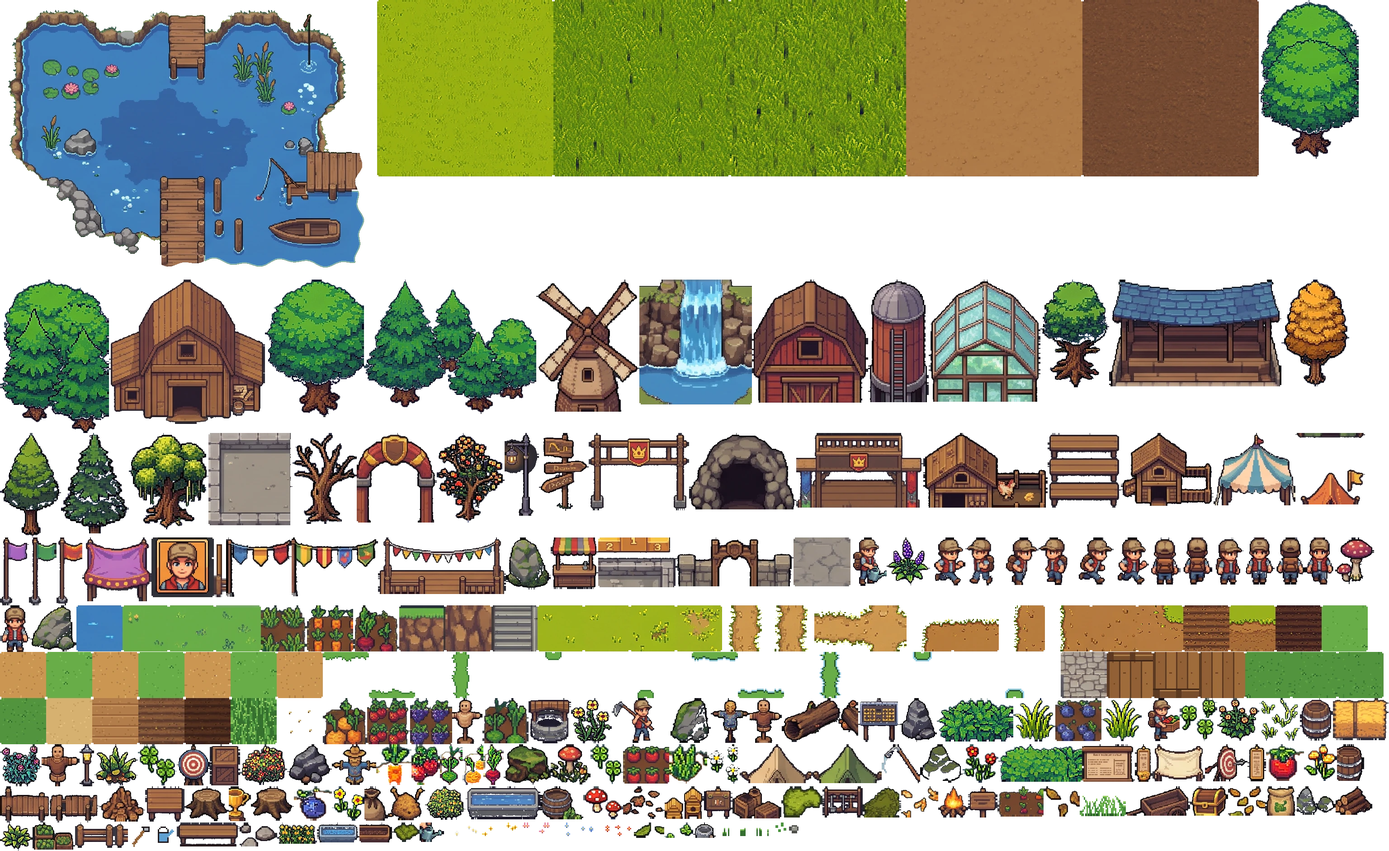
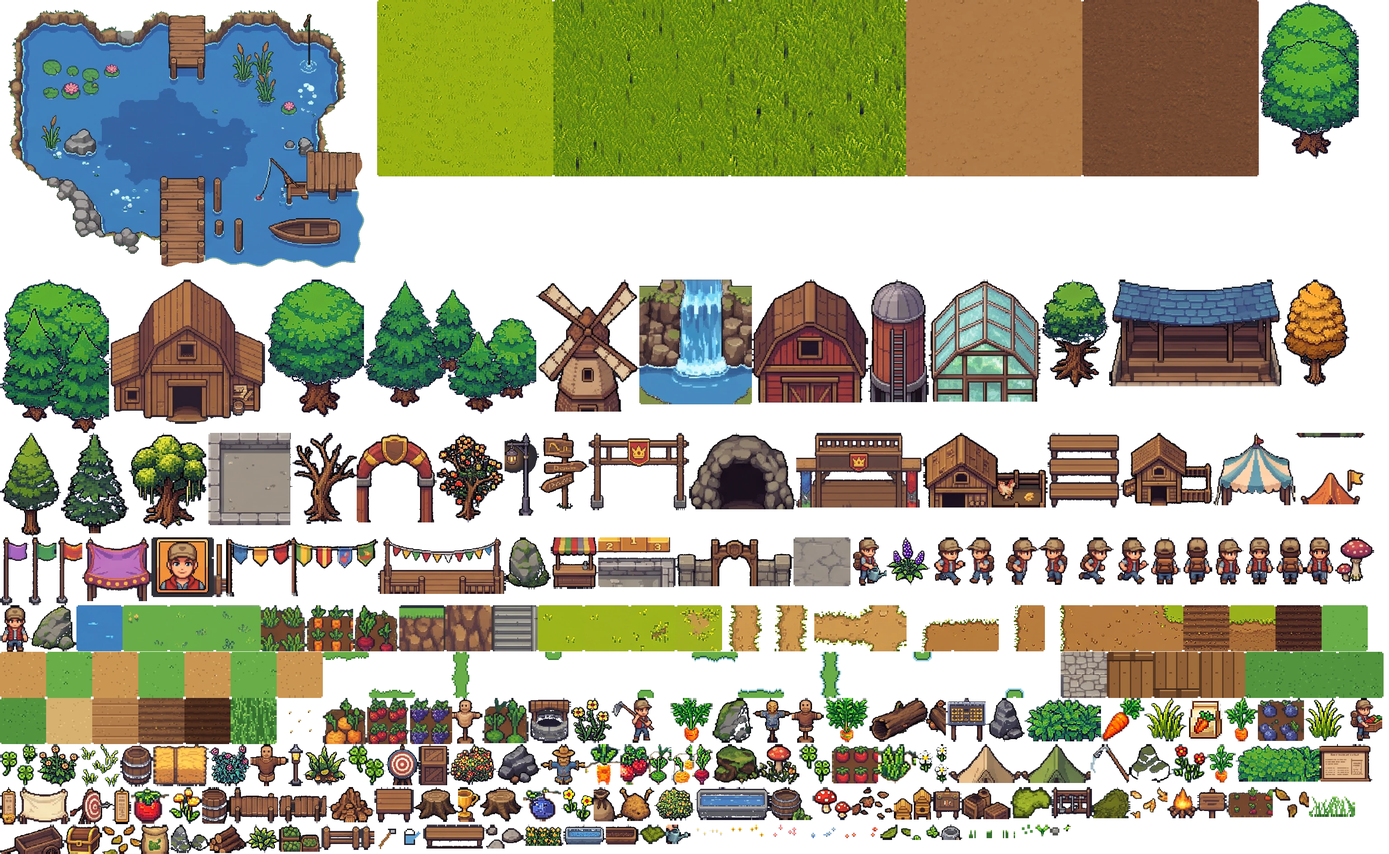
Cà rốt dùng bộ asset riêng: gieo hạt, nảy mầm, 4 giai đoạn lớn, thu hoạch
- assets/source/crop_carrot.png + tools/crops_cut.py: cắt hạt trong đất,
  mầm, 4 giai đoạn lớn (bỏ nền xám và dải đất), củ cà rốt, túi hạt giống
- Trong game: mới gieo = hạt; tưới = nảy mầm; giai đoạn 1 (lớn hơn khi đã
  tưới), giai đoạn 2, chín = cây cà rốt to
- Thanh công cụ: icon túi hạt cà rốt; cửa hàng / thùng bán: icon củ cà rốt
- Cây khác vẫn dùng hình cũ cho tới khi có bộ asset tương tự
  (đặt file assets/source/crop_<tên>.png cùng bố cục là dùng được)

Claude-Session: https://claude.ai/code/session_01BbaPnx3cHQqz9kHRAFFL9w

diff --git a/client/src/ui.ts b/client/src/ui.ts
@@ -72,7 +72,7 @@ export class UI {
       { id: 'hoe', icon: 'tool_hoe', label: 'Cuốc' },
       { id: 'can', icon: 'tool_can', label: 'Bình tưới' },
       { id: 'hand', icon: 'pc_tomato', label: 'Thu hoạch' },
-      ...seeds.map((c) => ({ id: 'seed:' + c, icon: 'pc_' + c, label: 'Hạt ' + CROPS[c].name, count: st.inv['seed:' + c] })),
+      ...seeds.map((c) => ({ id: 'seed:' + c, icon: this.atlas.frames[`cp_${c}_bag`] ? `cp_${c}_bag` : 'pc_' + c, label: 'Hạt ' + CROPS[c].name, count: st.inv['seed:' + c] })),
     ];
     this.hotbar.replaceChildren(...this.slots.map((s, i) => {
       const d = document.createElement('div');
@@ -112,7 +112,7 @@ export class UI {
     this.panel.dataset.kind = 'shop';
     const rows = CROP_IDS.map((c) => {
       const d = CROPS[c];
-      return `<div class="row"><span class="ic" data-ic="pc_${c}"></span>
+      return `<div class="row"><span class="ic" data-ic="${this.atlas.frames[`cp_${c}_item`] ? `cp_${c}_item` : `pc_${c}`}"></span>
         <span class="nm">${d.name}<small>${d.stageSecs * 3}s · bán ${d.sellPrice}<i class="coin"></i></small></span>
         <span class="have">${st.inv['seed:' + c] || 0}</span>
         <button data-buy="${c}" data-n="1" ${st.coins < d.seedPrice ? 'disabled' : ''}>${d.seedPrice}<i class="coin"></i></button>
@@ -125,7 +125,7 @@ export class UI {
     this.panel.dataset.kind = 'ship';
     const items = CROP_IDS.filter((c) => st.inv[c]);
     const rows = items.length
-      ? items.map((c) => `<div class="row"><span class="ic" data-ic="pc_${c}"></span>
+      ? items.map((c) => `<div class="row"><span class="ic" data-ic="${this.atlas.frames[`cp_${c}_item`] ? `cp_${c}_item` : `pc_${c}`}"></span>
           <span class="nm">${CROPS[c].name}<small>${CROPS[c].sellPrice}<i class="coin"></i> / cái</small></span>
           <span class="have">${st.inv[c]}</span>
           <button data-sell="${c}" data-n="1">Bán 1</button>

diff --git a/client/src/main.ts b/client/src/main.ts
@@ -220,6 +220,19 @@ function update(dt: number) {
 
 // ----------------------------------------------------------------- render
 interface Drawable { y: number; name: string; x: number; flip: boolean }
+/** Sprite for a plot. Crops with a full asset sheet (cp_<crop>_*) get their own
+ *  stages: seed -> sprout (watered) -> growing -> ripe. */
+function cropFrame(p: Plot): string {
+  const c = p.c;
+  if (atlas.frames[`cp_${c}_g4`]) {
+    if (p.s === 0) return p.w ? `cp_${c}_sprout` : `cp_${c}_seed`;
+    if (p.s === 1) return p.w ? `cp_${c}_g2` : `cp_${c}_g1`;
+    if (p.s === 2) return `cp_${c}_g3`;
+    return `cp_${c}_g4`;
+  }
+  if (p.s === 0) return 'pc_sprout:s';
+  return p.s >= RIPE ? 'pc_' + c : p.s === 1 ? 'pc_sprout:s' : 'pc_sprout';
+}
 const pool: Drawable[] = [];
 const list: Drawable[] = [];
 const byY = (a: Drawable, b: Drawable) => a.y - b.y;
@@ -256,8 +269,7 @@ function render(time: number) {
     if (!p.c) continue;
     // stage 0 = seeds in the furrows (nothing visible yet), 1 = small sprout,
     // 2 = leafy sprout, 3 = ripe plant
-    if (p.s === 0) continue;
-    push(p.s >= RIPE ? 'pc_' + p.c : p.s === 1 ? 'pc_sprout:s' : 'pc_sprout', tx * TILE + 16, ty * TILE + TILE - 3, false);
+    push(cropFrame(p), tx * TILE + 16, ty * TILE + TILE - 3, false);
   }
 
   // target highlight
@@ -294,7 +306,7 @@ function render(time: number) {
       drawAnchored(ctx, atlas, nm, 0, 0, d.flip); ctx.restore();
       continue;
     }
-    const sw = swayFor(d.name.startsWith('pc_') ? 'crop_' : d.name, d.x, d.y, ts);
+    const sw = swayFor(d.name.startsWith('pc_') || d.name.startsWith('cp_') ? 'crop_' : d.name, d.x, d.y, ts);
     if (sw) {
       // shear around the base: the top moves, the roots stay put
       ctx.save();

diff --git a/tools/crops_cut.py b/tools/crops_cut.py
@@ -1,0 +1,120 @@
+"""Cut crop growth stages + items from per-crop sheets (assets/source/crop_<name>.png).
+
+Layout of a crop sheet (2000px wide, like crop_carrot.png):
+  row 1: tilled soil, seed bag, empty soil, seed in soil, sprout
+  row 2: 4 growing stages (plant on grey background + soil band)
+  row 3: full harvest bunch, item views, crate, item card + shovel
+"""
+import os
+from collections import deque
+from PIL import Image
+
+ROOT = os.path.dirname(os.path.dirname(os.path.abspath(__file__)))
+
+CELLS = {
+    'seed': (1368, 82, 1632, 330, 'green'),
+    'sprout': (1665, 82, 1950, 330, 'green'),
+    'g1': (50, 405, 335, 670, 'plant'),
+    'g2': (472, 405, 735, 670, 'plant'),
+    'g3': (861, 405, 1123, 670, 'plant'),
+    'g4': (1368, 405, 1632, 670, 'plant'),
+    'item': (473, 786, 709, 1034, 'item'),
+    'bag': (632, 108, 792, 292, 'item'),
+}
+
+
+def is_grey(p):
+    r, g, b = p[:3]
+    return abs(r - g) < 10 and abs(g - b) < 10 and 55 < r < 120
+
+
+def is_soil(p):
+    r, g, b = p[:3]
+    return (55 <= r <= 150 and 30 <= g <= 100 and 18 <= b <= 70 and 18 <= r - g <= 60 and b < g) or \
+        (abs(r - 88) < 12 and abs(g - 87) < 12 and abs(b - 84) < 12)
+
+
+def largest(im):
+    px = im.load(); w, h = im.size
+    seen = set(); best = []
+    for sy in range(h):
+        for sx in range(w):
+            if px[sx, sy][3] and (sx, sy) not in seen:
+                st, comp = [(sx, sy)], []
+                seen.add((sx, sy))
+                while st:
+                    x, y = st.pop(); comp.append((x, y))
+                    for nx, ny in ((x + 1, y), (x - 1, y), (x, y + 1), (x, y - 1)):
+                        if 0 <= nx < w and 0 <= ny < h and px[nx, ny][3] and (nx, ny) not in seen:
+                            seen.add((nx, ny)); st.append((nx, ny))
+                if len(comp) > len(best):
+                    best = comp
+    keep = set(best)
+    for y in range(h):
+        for x in range(w):
+            if (x, y) not in keep:
+                px[x, y] = (0, 0, 0, 0)
+    return im.crop(im.getchannel('A').getbbox())
+
+
+def cut(src, box, mode):
+    x0, y0, x1, y1 = box
+    im = src.crop((x0 + 4, y0 + 4, x1 - 4, y1 - 4)).convert('RGBA')
+    px = im.load(); w, h = im.size
+    for y in range(h):
+        for x in range(w):
+            p = px[x, y]
+            r, g, b = p[:3]
+            if mode == 'green':
+                keep = g > r + 15 and g > b + 15
+            elif mode == 'plant':
+                keep = not is_grey(p) and not is_soil(p)
+            else:  # item on grey / dark backgrounds: flood fill from the border
+                keep = True
+            if not keep:
+                px[x, y] = (0, 0, 0, 0)
+    if mode == 'item':
+        q = deque([(x, 0) for x in range(w)] + [(x, h - 1) for x in range(w)] + [(0, y) for y in range(h)] + [(w - 1, y) for y in range(h)])
+        seen = set()
+        while q:
+            x, y = q.popleft()
+            if (x, y) in seen:
+                continue
+            seen.add((x, y))
+            r, g, b, a = px[x, y]
+            if not (is_grey((r, g, b)) or (r < 70 and g < 70 and b < 70 and abs(r - b) < 15)):
+                continue
+            px[x, y] = (0, 0, 0, 0)
+            for nx, ny in ((x + 1, y), (x - 1, y), (x, y + 1), (x, y - 1)):
+                if 0 <= nx < w and 0 <= ny < h:
+                    q.append((nx, ny))
+    return largest(im)
+
+
+def build(res, T=32):
+    out = {}
+    for crop in ('carrot',):
+        path = os.path.join(ROOT, f'assets/source/crop_{crop}.png')
+        if not os.path.exists(path):
+            continue
+        src = Image.open(path).convert('RGB')
+        for k, (x0, y0, x1, y1, mode) in CELLS.items():
+            im = cut(src, (x0, y0, x1, y1), mode)
+            # sheet cells are ~265px for one tile; stages keep their relative size
+            if k in ('item', 'bag'):
+                s = min(30 * res / im.width, 30 * res / im.height)
+            else:
+                s = (T * res) / 265 * 1.15
+            out[f'cp_{crop}_{k}'] = im.resize((max(1, round(im.width * s)), max(1, round(im.height * s))), Image.LANCZOS)
+    return out
+
+
+if __name__ == '__main__':
+    imgs = build(3)
+    W = sum(i.width + 10 for i in imgs.values())
+    H = max(i.height for i in imgs.values()) + 10
+    sheet = Image.new('RGBA', (W, H), (110, 70, 40, 255))
+    x = 5
+    for i in imgs.values():
+        sheet.alpha_composite(i, (x, H - 5 - i.height)); x += i.width + 10
+    sheet.save(os.environ.get('PREVIEW', '/tmp/crops.png'))

diff --git a/tools/build_assets.py b/tools/build_assets.py
@@ -801,7 +801,7 @@ def polish(im, rim=True, sharp=150, color=1.18, contrast=1.08):
     return out
 
 
-GLOSSY = ('flower', 'flowers_', 'd_flower', 'd_clover', 'd_tuft', 'd_sprouts', 'd_mushroom', 'fern', 'plant', 'pc_',
+GLOSSY = ('cp_', 'flower', 'flowers_', 'd_flower', 'd_clover', 'd_tuft', 'd_sprouts', 'd_mushroom', 'fern', 'plant', 'pc_',
           'bush', 'tree', 'trees_', 'forest_')
 
 
@@ -888,6 +888,9 @@ def main():
     # watering can icon from the farming-action panel of sheet 5
     can = cut_object('s5', (1160, 1108, 1262, 1186))
     images['tool_can'] = trim(downscale(can, mult=0.6)); native.add('tool_can')
+    import crops_cut
+    cp = crops_cut.build(RES, T)
+    images.update(cp); native.update(cp)
     images.update(s4_tiles()); native.update(S4_TILES); native.add('gt_furrow_wet')
     # crops render as 1 tile
     for name in list(images):
